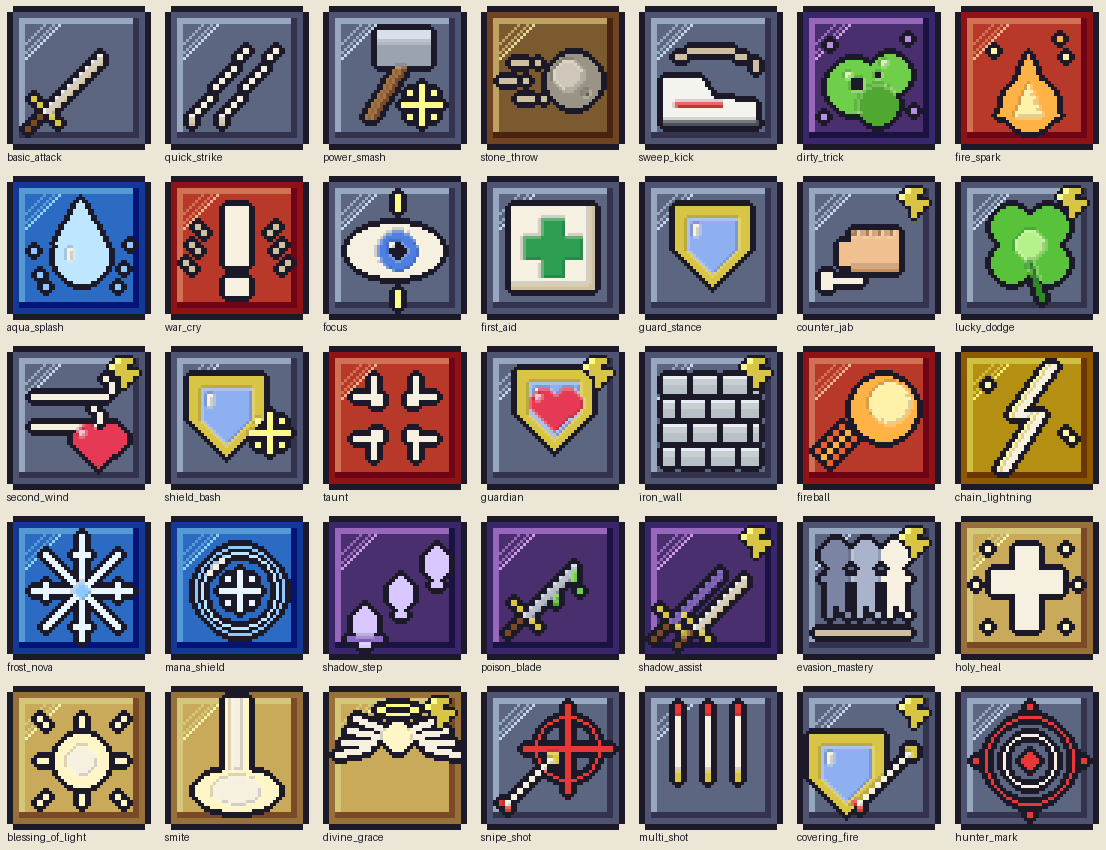
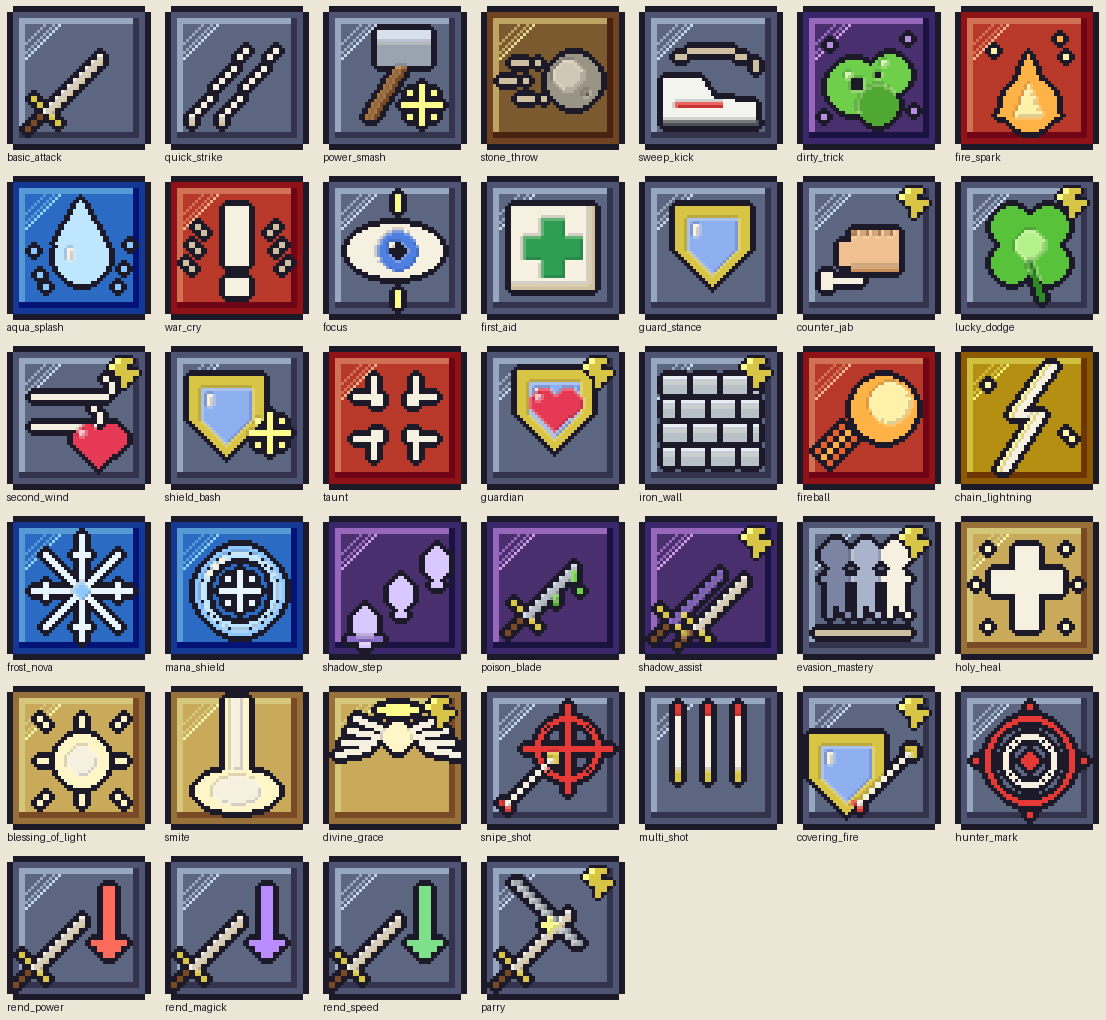
FFT job system, first class: Knight (Rend x3, Taunt, Parry, Iron Blood)
- Knight kit from the owner's picks in the FFT job list: Rend Power / Rend
  Magick / Rend Speed, Taunt, Parry (new PARRY reactive: a physical strike is
  turned aside before the hit roll).
- Class traits: ClassDef.traits copied to CombatUnit.traits (removed by a
  mutation like the class passive). Iron Blood heals VIT x 0.2 (max 2% max HP)
  at the start of every allied turn. CombatStats carries VIT.
- Debuffs riding on an attack need a hit, like statuses.
- Skill icons for the four new skills; parry popup; traits shown in the class
  trial and character panel. MASTER_SPEC 6, COMBAT_SPEC, ROADMAP, CHANGELOG.

diff --git a/packages/shared/src/combat/engine.ts b/packages/shared/src/combat/engine.ts
@@ -10,6 +10,7 @@
  */
 import { MONSTERS, monsterDeck, type BossSkill } from '../data/monsters';
 import { BASIC_ATTACK, SKILLS } from '../data/skills';
+import { CLASSES } from '../data/classes';
 import { CONSUMABLES } from '../data/items';
 import { createRng, type Rng } from '../rules/rng';
 import { mitigate } from '../rules/stats';
@@ -99,6 +100,8 @@ function makeUnit(s: UnitSetup, side: 'A' | 'B', rng: Rng): CombatUnit {
     bag: s.items ? { ...s.items } : null,
     awaken: Math.max(0, Math.min(AWAKEN_MAX, s.awaken ?? 0)),
     awakenable: side === 'A' && !!s.classId && !s.passive,
+    // A mutation replaces the class passive (MASTER_SPEC §7) — traits included.
+    traits: s.classId && !s.mutation ? { ...(CLASSES[s.classId]?.traits ?? {}) } : {},
   };
 }
 
@@ -212,7 +215,7 @@ export function stat(u: CombatUnit, key: keyof CombatStats): number {
     pct += b.pct ?? 0;
     flat += b.flat ?? 0;
   }
-  let v = u.base[key] * (1 + pct) + flat;
+  let v = (u.base[key] ?? 0) * (1 + pct) + flat;
   if (key === 'speed') {
     const slow = u.statuses.find((s) => s.id === 'SLOW');
     if (slow) v *= 1 - slow.potency;
@@ -341,6 +344,7 @@ function takeTurn(c: Combat, u: CombatUnit) {
   }
   push(c, { type: 'TURN', unit: u.id });
   for (const k of Object.keys(u.cooldowns)) u.cooldowns[k] = Math.max(0, (u.cooldowns[k] ?? 0) - 1);
+  allyTurnRegen(c, u);
 
   // 1. Status phase — damage over time, then hard crowd control.
   for (const s of [...u.statuses]) {
@@ -396,6 +400,18 @@ function takeTurn(c: Combat, u: CombatUnit) {
   }
   useSkill(c, u, chosen);
   endTurn(u);
+}
+
+/** Iron Blood & co: allies of the unit whose turn starts recover a little HP (no RNG). */
+function allyTurnRegen(c: Combat, u: CombatUnit) {
+  for (const a of alliesOf(c, u)) {
+    const r = a.traits.allyTurnHeal;
+    if (!r || a.hp >= a.base.maxHp) continue;
+    const want = Math.max(1, Math.round((a.base.vit ?? 0) * r.vit));
+    const amount = Math.min(want, Math.max(1, Math.round(a.base.maxHp * r.capPct)), a.base.maxHp - a.hp);
+    a.hp += amount;
+    push(c, { type: 'RECOVER', unit: a.id, amount });
+  }
 }
 
 /** The unit's next unused input whose turn has come (consumed on read). */
@@ -543,7 +559,7 @@ function useSkill(c: Combat, u: CombatUnit, sk: SkillDef, opts: UseOpts = {}) {
 function effectReceivers(u: CombatUnit, sk: SkillDef, e: Effect, targets: CombatUnit[], landed: Set<CombatUnit>): CombatUnit[] {
   if ('self' in e && e.self) return [u];
   const offensive = sk.effects.some((x) => x.kind === 'DAMAGE');
-  if (offensive && e.kind === 'STATUS') return [...landed].filter(alive); // debuffs need a hit
+  if (offensive && (e.kind === 'STATUS' || e.kind === 'BUFF')) return [...landed].filter(alive); // debuffs need a hit
   return targets;
 }
 
@@ -578,6 +594,14 @@ function strike(
   covered: boolean,
 ): boolean {
   const element = sk.element === 'NEUTRAL' ? (u.side === 'B' ? u.element : 'NEUTRAL') : sk.element;
+  if (!sk.unavoidable && e.type === 'PHYSICAL' && t !== u) {
+    const parry = reactiveRoll(c, t, 'PARRY');
+    if (parry) {
+      push(c, { type: 'SKILL', unit: t.id, skill: parry.id, targets: [u.id], reactive: 'PARRY' });
+      push(c, { type: 'MISS', source: u.id, target: t.id, parry: true });
+      return false;
+    }
+  }
   if (!sk.unavoidable && e.type !== 'TRUE') {
     const hitChance = Math.max(0.05, Math.min(1, stat(u, 'hit') - stat(t, 'dodge')));
     if (c.rng() >= hitChance) {

diff --git a/packages/shared/src/combat/knight.test.ts b/packages/shared/src/combat/knight.test.ts
@@ -1,0 +1,60 @@
+/** FFT-style Knight (owner's picks 2026-09-27): Iron Blood regen, Parry, Rend debuffs. */
+import { describe, expect, it } from 'vitest';
+import { CLASSES, createCombat, monsterSetup, replayCombat, runToEnd, type CombatConfig, type CombatEvent } from '../index';
+import { hero } from './testHero';
+
+const KIT = ['rend_power', 'rend_magick', 'rend_speed', 'taunt', 'parry'];
+const events = (cfg: CombatConfig) => runToEnd(createCombat(cfg)).events;
+const of = <T extends CombatEvent['type']>(evs: CombatEvent[], type: T) => evs.filter((e): e is Extract<CombatEvent, { type: T }> => e.type === type);
+
+describe('FFT Knight', () => {
+  it('the class pool is the owner-picked kit', () => {
+    expect(CLASSES.KNIGHT.skills).toEqual(KIT);
+    expect(CLASSES.KNIGHT.traits?.allyTurnHeal).toBeDefined();
+  });
+
+  it('Iron Blood: recovers on allied turns, never more than 2% max HP a tick', () => {
+    const knight = hero({ id: 'k', deck: KIT });
+    const buddy = hero({ id: 'b', classId: 'NOVICE', deck: [] });
+    const c = runToEnd(createCombat({ partyA: [knight, buddy], partyB: [monsterSetup('soi_dog_spirit', 'e0'), monsterSetup('alley_rat', 'e1')], seed: 3 }));
+    const regen = of(c.events, 'RECOVER').filter((e) => e.unit === 'k');
+    expect(regen.length).toBeGreaterThan(0);
+    const cap = Math.round(knight.stats.maxHp * 0.02);
+    for (const r of regen) expect(r.amount).toBeLessThanOrEqual(cap);
+    // the Novice has no such trait
+    expect(of(c.events, 'RECOVER').some((e) => e.unit === 'b')).toBe(false);
+  });
+
+  it('a mutation replaces Iron Blood like the class passive', () => {
+    const c = createCombat({ partyA: [{ ...hero({ deck: KIT }), mutation: 'PURE_TANK' }], partyB: [monsterSetup('soi_dog_spirit', 'e0')], seed: 1 });
+    expect(c.units[0]!.traits).toEqual({});
+  });
+
+  it('Parry turns physical strikes aside (a MISS marked parry, no damage)', () => {
+    let parried = 0;
+    for (let seed = 1; seed <= 40; seed++) {
+      const evs = events({ partyA: [hero({ id: 'k', deck: ['parry'] })], partyB: [monsterSetup('soi_dog_spirit', 'e0')], seed });
+      for (const m of of(evs, 'MISS')) if (m.target === 'k' && m.parry) parried++;
+    }
+    expect(parried).toBeGreaterThan(0);
+  });
+
+  it('Rend Power only debuffs a target it actually hit', () => {
+    for (let seed = 1; seed <= 20; seed++) {
+      const evs = events({ partyA: [hero({ id: 'k', deck: ['rend_power'] })], partyB: [monsterSetup('soi_dog_spirit', 'e0')], seed });
+      for (let i = 0; i < evs.length; i++) {
+        const e = evs[i]!;
+        if (e.type !== 'SKILL' || e.skill !== 'rend_power') continue;
+        const after = evs.slice(i + 1, i + 4);
+        const missed = after.some((x) => x.type === 'MISS' && x.source === 'k');
+        const debuffed = after.some((x) => x.type === 'BUFF' && x.stat === 'atk' && (x.pct ?? 0) < 0);
+        if (missed) expect(debuffed).toBe(false);
+      }
+    }
+  });
+
+  it('stays deterministic (replay)', () => {
+    const cfg: CombatConfig = { partyA: [hero({ deck: KIT })], partyB: [monsterSetup('soi_dog_spirit', 'e0'), monsterSetup('alley_rat', 'e1')], seed: 11 };
+    expect(replayCombat(cfg).events).toEqual(replayCombat(cfg).events);
+  });
+});

diff --git a/packages/shared/src/combat/types.ts b/packages/shared/src/combat/types.ts
@@ -32,6 +32,8 @@ export interface CombatStats {
   blockReduce: number;
   /** multiplier on healing done */
   healPower: number;
+  /** Primary VIT (players; drives the Knight's Iron Blood regen). */
+  vit?: number;
 }
 
 export type StatusId = 'STUN' | 'FREEZE' | 'POISON' | 'BURN' | 'BLEED' | 'SLOW' | 'TAUNTING' | 'ROOT';
@@ -112,7 +114,16 @@ export type Effect =
  * ON_LOW_HP    — your HP fell below 30% → effects on self (once per battle)
  * ON_ALLY_DEATH— an ally died → effects (rage, shields, vengeance)
  */
-export type TriggerKind = 'COVER' | 'ASSIST' | 'COUNTER' | 'ON_DODGE' | 'ON_LOW_HP' | 'ON_ALLY_DEATH';
+export type TriggerKind = 'COVER' | 'ASSIST' | 'COUNTER' | 'ON_DODGE' | 'ON_LOW_HP' | 'ON_ALLY_DEATH' | 'PARRY';
+
+/**
+ * Always-on class traits (FFT-style jobs, MASTER_SPEC §6). Replaced by a mutation like the class passive.
+ * allyTurnHeal — at the start of every allied unit's turn (own turn included) the unit recovers
+ *                VIT × vit HP, at most capPct × max HP per tick (Knight: Iron Blood).
+ */
+export interface ClassTraits {
+  allyTurnHeal?: { vit: number; capPct: number };
+}
 
 export interface SkillDef {
   id: string;
@@ -176,6 +187,8 @@ export interface CombatUnit {
   bag: Record<string, number> | null;
   /** Awakening gauge 0..AWAKEN_MAX (players only). */
   awaken: number;
+  /** Always-on class traits (none for monsters or mutated characters). */
+  traits: ClassTraits;
   /** Player character that can Awaken (side A with a class, not a dummy). */
   awakenable: boolean;
 }
@@ -237,7 +250,7 @@ export type CombatEvent =
   | { type: 'TURN'; unit: string }
   | { type: 'SKIP'; unit: string; reason: StatusId }
   | { type: 'SKILL'; unit: string; skill: string; targets: string[]; reactive?: TriggerKind; mp?: number }
-  | { type: 'MISS'; source: string; target: string }
+  | { type: 'MISS'; source: string; target: string; parry?: boolean }
   | { type: 'DAMAGE'; source: string; target: string; amount: number; crit: boolean; block: boolean; element: Element }
   | { type: 'HEAL'; source: string; target: string; amount: number }
   | { type: 'STATUS'; target: string; status: StatusId; turns: number }
@@ -281,5 +294,6 @@ export function statsFromDerived(d: DerivedStats, extra: { dex: number; luk: num
     block: Math.min(0.45, extra.vit * 0.0015 + (extra.shield ? 0.15 : 0)),
     blockReduce: 0.5,
     healPower: d.healPower,
+    vit: extra.vit,
   };
 }

diff --git a/packages/shared/src/data/skills.ts b/packages/shared/src/data/skills.ts
@@ -65,6 +65,36 @@ export const SKILLS: Record<string, SkillDef> = {
     effects: [{ kind: 'SHIELD', pctMaxHp: 0.5, turns: 3 }],
   }),
 
+  // ---------------------------------------------------------------- Knight (FFT jobs, 2026-09-27)
+  rend_power: S({
+    id: 'rend_power', name: 'Rend Power', nameTh: 'ทำลายพลัง', description: '100% ATK และลด ATK ศัตรู 30% 3 เทิร์น',
+    kind: 'ACTIVE', element: 'NEUTRAL', rate: 30, cooldown: 3, mp: 12, target: 'ENEMY', priority: 1,
+    effects: [
+      { kind: 'DAMAGE', type: 'PHYSICAL', scaling: { atk: 1 } },
+      { kind: 'BUFF', stat: 'atk', pct: -0.3, turns: 3 },
+    ],
+  }),
+  rend_magick: S({
+    id: 'rend_magick', name: 'Rend Magick', nameTh: 'ทำลายเวท', description: '100% ATK และลด MATK ศัตรู 25% 3 เทิร์น',
+    kind: 'ACTIVE', element: 'NEUTRAL', rate: 25, cooldown: 3, mp: 12, target: 'ENEMY', priority: 1,
+    effects: [
+      { kind: 'DAMAGE', type: 'PHYSICAL', scaling: { atk: 1 } },
+      { kind: 'BUFF', stat: 'matk', pct: -0.25, turns: 3 },
+    ],
+  }),
+  rend_speed: S({
+    id: 'rend_speed', name: 'Rend Speed', nameTh: 'ทำลายความเร็ว', description: '100% ATK และทำให้ช้าลง 30% 3 เทิร์น',
+    kind: 'ACTIVE', element: 'NEUTRAL', rate: 25, cooldown: 3, mp: 12, target: 'ENEMY', priority: 1,
+    effects: [
+      { kind: 'DAMAGE', type: 'PHYSICAL', scaling: { atk: 1 } },
+      { kind: 'STATUS', status: 'SLOW', turns: 3, potency: 0.3 },
+    ],
+  }),
+  parry: S({
+    id: 'parry', name: 'Parry', nameTh: 'ปัดป้อง', description: 'ถูกโจมตีกายภาพ: 25% ปัดทิ้ง ไม่เสียเลือด',
+    kind: 'REACTIVE', trigger: 'PARRY', element: 'NEUTRAL', rate: 25, cooldown: 0, mp: 0, target: 'SELF', effects: [],
+  }),
+
   // ---------------------------------------------------------------- Sorcerer
   fireball: S({
     id: 'fireball', name: 'Fireball', nameTh: 'ลูกไฟทำลายล้าง', description: 'ศัตรูทุกตัว 150% MATK ไฟ + 30% ติดไฟ 2 เทิร์น',

diff --git a/apps/game/src/ui/hud.ts b/apps/game/src/ui/hud.ts
@@ -632,6 +632,7 @@ function charPanel(s: SaveData): string {
         <div class="mut-prog">${bar(prog.share, MUTATION_THRESHOLD, 'mut')}<small>${prog.stat.toUpperCase()} ${(prog.share * 100).toFixed(0)}%</small></div></div>`;
   return `<h2>${esc(s.name)} <small>Lv.${s.level} ${esc(CLASSES[s.classId].nameTh)}</small></h2>
     <p class="muted">${esc(CLASSES[s.classId].passive.name)}: ${esc(mut ? 'ถูกแทนที่ด้วย Mutation' : CLASSES[s.classId].passive.description)}</p>
+    ${CLASSES[s.classId].traitNote && !mut ? `<p class="muted">${esc(CLASSES[s.classId].traitNote!.nameTh)} (${esc(CLASSES[s.classId].traitNote!.name)}): ${esc(CLASSES[s.classId].traitNote!.description)}</p>` : ''}
     ${charTab === 'skill' ? charSkillWindow(s) : charEquipWindow(s)}
     ${charTab === 'equip' ? `<p class="muted">แตะช่องอุปกรณ์เพื่อถอด/สวมของในกระเป๋า · ${s.unspentPoints ? `มี Status Point <b class="accent">${s.unspentPoints}</b> — กด + ที่ค่าสถานะ` : 'เก็บเลเวลเพื่อรับ Status Point'}</p>` : ''}
     ${mutText}
@@ -666,7 +667,8 @@ function trialPanel(): string {
       const k = CLASSES[c];
       return `<button class="choice" data-class="${c}"><b>${esc(k.nameTh)} (${esc(k.nameEn)})</b>
         <span>${esc(k.role)} · ${k.mainStats.map((x) => x.toUpperCase()).join('/')}</span>
-        <span>${esc(k.passive.name)}: ${esc(k.passive.description)}</span></button>`;
+        <span>${esc(k.passive.name)}: ${esc(k.passive.description)}</span>
+        ${k.traitNote ? `<span>${esc(k.traitNote.nameTh)} (${esc(k.traitNote.name)}): ${esc(k.traitNote.description)}</span>` : ''}</button>`;
     })
     .join('');
   return `<h2>${uiIcon('star')}วิหารแห่งการทดสอบ</h2>

diff --git a/packages/shared/src/data/classes.ts b/packages/shared/src/data/classes.ts
@@ -1,4 +1,5 @@
 import type { ClassId, Modifiers, StatKey } from '../types';
+import type { ClassTraits } from '../combat/types';
 
 export interface ClassDef {
   id: ClassId;
@@ -8,6 +9,9 @@ export interface ClassDef {
   mainStats: StatKey[];
   passive: { id: string; name: string; description: string; modifiers: Modifiers };
   skills: string[];
+  /** Always-on combat traits of the class (shown with the passive). */
+  traits?: ClassTraits;
+  traitNote?: { name: string; nameTh: string; description: string };
 }
 
 export const CLASS_CHANGE_LEVEL = 10;
@@ -50,7 +54,14 @@ export const CLASSES: Record<ClassId, ClassDef> = {
       description: 'DEF +25% และ HP Max +20%',
       modifiers: { pct: { def: 0.25, maxHp: 0.2 } },
     },
-    skills: ['shield_bash', 'taunt', 'guardian', 'iron_wall'],
+    // FFT Knight (owner's picks 2026-09-27): Rend Power/Magick/Speed + Parry, plus a taunt and Iron Blood
+    skills: ['rend_power', 'rend_magick', 'rend_speed', 'taunt', 'parry'],
+    traits: { allyTurnHeal: { vit: 0.2, capPct: 0.02 } },
+    traitNote: {
+      name: 'Iron Blood',
+      nameTh: 'เลือดเหล็ก',
+      description: 'ทุกครั้งที่ฝ่ายเราได้เทิร์น ฟื้น HP = VIT × 0.2 (สูงสุด 2% Max HP ต่อครั้ง)',
+    },
   },
   SORCERER: {
     id: 'SORCERER',

diff --git a/packages/shared/src/rules/monsters.test.ts b/packages/shared/src/rules/monsters.test.ts
@@ -31,7 +31,7 @@ function unit(id: string, level: number, classId: ClassId, alloc: Partial<Stats>
   const back = classId === 'SORCERER' || classId === 'CLERIC' || classId === 'RANGER';
   return { id, name: id, row: back ? 'BACK' : 'FRONT', sprite: 'h', level, classId, deck, autoPotion: true, items: { ...kit }, stats: statsFromDerived(d, { dex: stats.dex, luk: stats.luk, vit: stats.vit }) };
 }
-const knight = (lv: number) => unit('k', lv, 'KNIGHT', { str: lv * 2 + 5, vit: lv * 2 + 10, agi: 10 }, ['power_smash', 'focus', 'shield_bash', 'taunt', 'guardian', 'iron_wall']);
+const knight = (lv: number) => unit('k', lv, 'KNIGHT', { str: lv * 2 + 5, vit: lv * 2 + 10, agi: 10 }, ['power_smash', 'rend_power', 'rend_speed', 'rend_magick', 'taunt', 'parry']);
 const sorcerer = (lv: number) => unit('s', lv, 'SORCERER', { int: lv * 3, vit: lv }, ['power_smash', 'focus', 'fireball', 'chain_lightning', 'frost_nova', 'mana_shield']);
 const cleric = (lv: number) => unit('c', lv, 'CLERIC', { int: lv * 2, vit: lv * 2 }, ['power_smash', 'focus', 'holy_heal', 'blessing_of_light', 'smite', 'divine_grace']);
 

diff --git a/packages/shared/src/rules/dungeons.test.ts b/packages/shared/src/rules/dungeons.test.ts
@@ -106,7 +106,7 @@ describe('party dungeon mechanics', () => {
 describe('dungeon balance', () => {
   const novice = (id: string, lv: number) => unit(id, lv, 'NOVICE', { str: lv * 2, vit: lv * 2 }, starterGear, NOVICE_DECK, { red_potion: 3 });
   const kit = { red_potion: 5, blue_elixir: 3 };
-  const knight = (lv: number) => unit('k', lv, 'KNIGHT', { str: lv * 2 + 5, vit: lv * 2 + 10, agi: 10 }, midGear, ['power_smash', 'focus', 'shield_bash', 'taunt', 'guardian', 'iron_wall'], kit);
+  const knight = (lv: number) => unit('k', lv, 'KNIGHT', { str: lv * 2 + 5, vit: lv * 2 + 10, agi: 10 }, midGear, ['power_smash', 'rend_power', 'rend_speed', 'rend_magick', 'taunt', 'parry'], kit);
   const sorcerer = (lv: number) => unit('s', lv, 'SORCERER', { int: lv * 3, vit: lv }, midGear, ['power_smash', 'focus', 'fireball', 'chain_lightning', 'frost_nova', 'mana_shield'], kit);
   const cleric = (lv: number) => unit('c', lv, 'CLERIC', { int: lv * 2, vit: lv * 2 }, midGear, ['power_smash', 'focus', 'holy_heal', 'blessing_of_light', 'smite', 'divine_grace'], kit);
 

diff --git a/packages/shared/src/rules/story.test.ts b/packages/shared/src/rules/story.test.ts
@@ -115,7 +115,7 @@ function unit(id: string, level: number, classId: ClassId, alloc: Partial<Stats>
   return { id, name: id, row: back ? 'BACK' : 'FRONT', sprite: 'h', level, classId, deck, autoPotion: true, items: { ...kit }, stats: statsFromDerived(d, { dex: stats.dex, luk: stats.luk, vit: stats.vit }) };
 }
 const trio = (lv: number) => [
-  unit('k', lv, 'KNIGHT', { str: lv * 2 + 5, vit: lv * 2 + 10, agi: 10 }, ['power_smash', 'focus', 'shield_bash', 'taunt', 'guardian', 'iron_wall']),
+  unit('k', lv, 'KNIGHT', { str: lv * 2 + 5, vit: lv * 2 + 10, agi: 10 }, ['power_smash', 'rend_power', 'rend_speed', 'rend_magick', 'taunt', 'parry']),
   unit('s', lv, 'SORCERER', { int: lv * 3, vit: lv }, ['power_smash', 'stone_throw', 'fireball', 'chain_lightning', 'frost_nova', 'mana_shield']),
   unit('c', lv, 'CLERIC', { int: lv * 2, vit: lv * 2 }, ['power_smash', 'stone_throw', 'holy_heal', 'blessing_of_light', 'smite', 'divine_grace']),
 ];

diff --git a/apps/game/src/scenes/BattleScene.ts b/apps/game/src/scenes/BattleScene.ts
@@ -1321,7 +1321,8 @@ export class BattleScene extends Phaser.Scene {
         break;
       }
       case 'MISS':
-        this.popup(e.target, 'MISS', '#b0bec5', false, delay);
+        // Parry: the Knight turns the blow aside
+        this.popup(e.target, e.parry ? 'ปัด!' : 'MISS', e.parry ? '#ffd54f' : '#b0bec5', !!e.parry, delay);
         this.time.delayedCall(delay, () => sfx('miss'));
         break;
       case 'HEAL':

diff --git a/pixel-art/skill-icons/build.py b/pixel-art/skill-icons/build.py
@@ -398,6 +398,45 @@ def hunter_mark():
     return finish(t)
 
 
+# ---- FFT Knight (Arts of War, 2026-09-27): a blade + a falling arrow in the colour of the stat it breaks
+
+def down_arrow(s, cx, top, c, h=9):
+    for y in range(top, top + h - 3):
+        s.px(cx, y, c); s.px(cx + 1, y, c)
+    y = top + h - 3
+    for k, w in enumerate((3, 2, 1)):
+        s.line(cx - w + 1, y + k, cx + w, y + k, c)
+
+
+def rend(color):
+    t = tile("NEUTRAL"); s = t[0]
+    sword(s, 4, 18, 8)
+    down_arrow(s, 16, 5, color, 12)
+    return finish(t)
+
+
+def rend_power():
+    return rend("#ff6b5a")
+
+
+def rend_magick():
+    return rend("#b98cff")
+
+
+def rend_speed():
+    return rend("#7ee08a")
+
+
+def parry():
+    t = tile("NEUTRAL", True); s = t[0]
+    for k in range(11):                     # the enemy blade, grey, coming down from the top-left
+        s.px(5 + k, 4 + k, "#b8c0c8"); s.px(6 + k, 4 + k, "#8a94a0")
+    sword(s, 5, 18, 9)                      # our blade catches it
+    for dx, dy in ((0, 0), (1, 0), (-1, 0), (0, 1), (0, -1)):
+        s.px(11 + dx, 11 + dy, GOLD[3])     # spark where the blades meet
+    return finish(t)
+
+
 ICONS = {
     "basic_attack": basic_attack, "quick_strike": quick_strike, "power_smash": power_smash, "stone_throw": stone_throw,
     "sweep_kick": sweep_kick, "dirty_trick": dirty_trick, "fire_spark": fire_spark, "aqua_splash": aqua_splash,
@@ -408,6 +447,7 @@ ICONS = {
     "shadow_step": shadow_step, "poison_blade": poison_blade, "shadow_assist": shadow_assist, "evasion_mastery": evasion_mastery,
     "holy_heal": holy_heal, "blessing_of_light": blessing_of_light, "smite": smite, "divine_grace": divine_grace,
     "snipe_shot": snipe_shot, "multi_shot": multi_shot, "covering_fire": covering_fire, "hunter_mark": hunter_mark,
+    "rend_power": rend_power, "rend_magick": rend_magick, "rend_speed": rend_speed, "parry": parry,
 }
 
 
